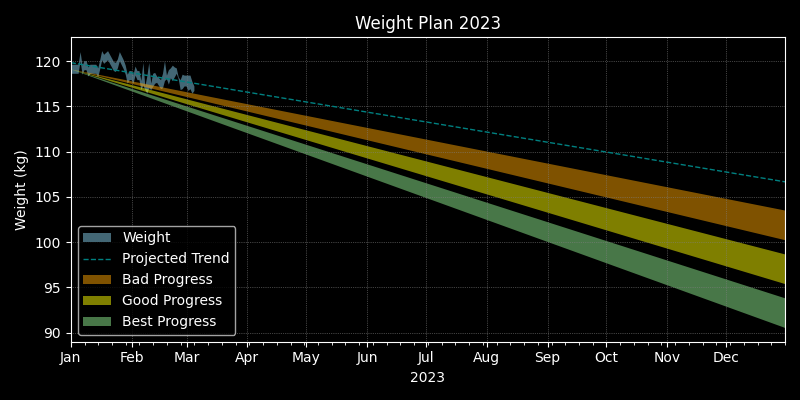
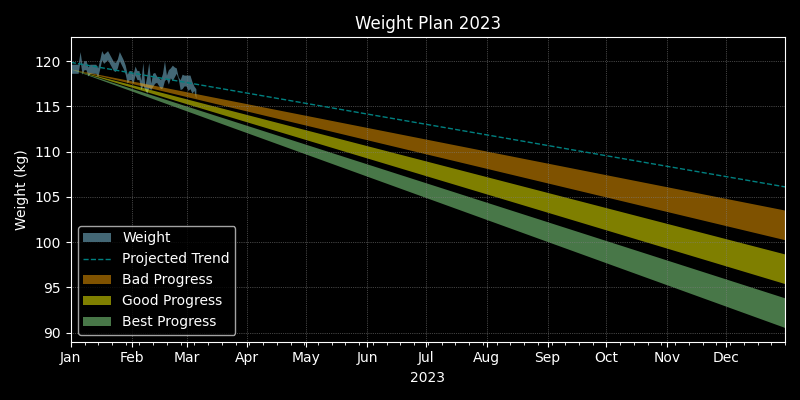
fetch data file from windows before running to ensure up-to-date data

diff --git a/my-first-app/make_fig.py b/my-first-app/make_fig.py
@@ -1,4 +1,6 @@
 import datetime
+import shutil
+import os
 
 import numpy as np
 import pandas as pd
@@ -7,6 +9,12 @@ import matplotlib.dates as mdates
 mplot.style.use("dark_background")
 
 from scipy.optimize import curve_fit
+
+
+def fetch_data_file():
+    source = "/mnt/c/Users/andbra/OneDrive - Aker BP/Documents/09 Private/01 Vekt/data.xlsx"
+    shutil.copyfile(source, "data.xlsx")
+
 
 
 def linear_model(x, a, b):
@@ -88,5 +96,6 @@ class WeightLoss:
 
 
 if __name__ == "__main__":
+    fetch_data_file()
     wl = WeightLoss("data.xlsx")
     wl.plot()
